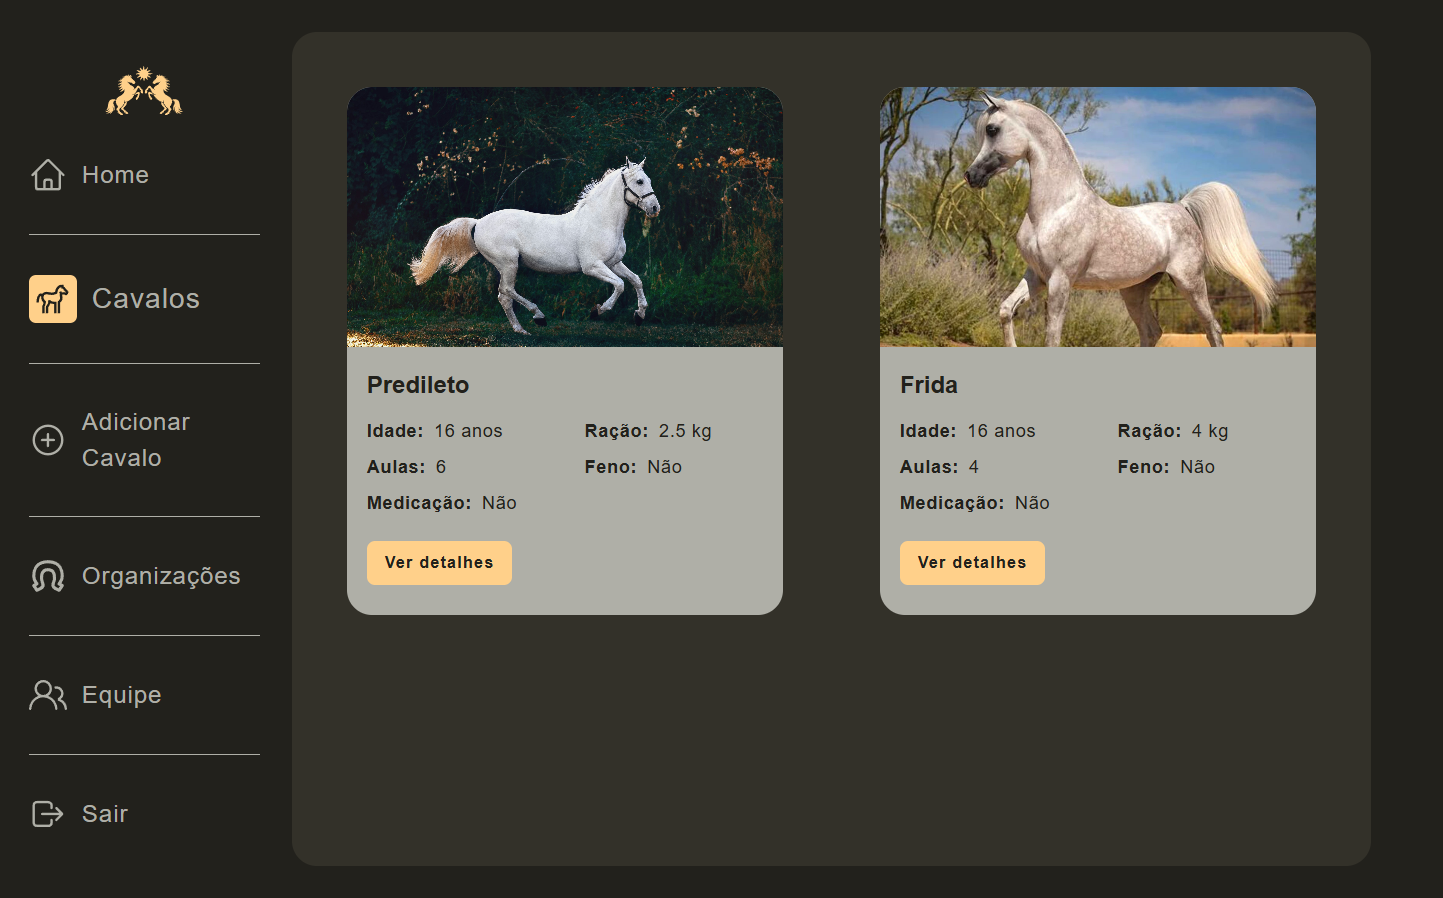
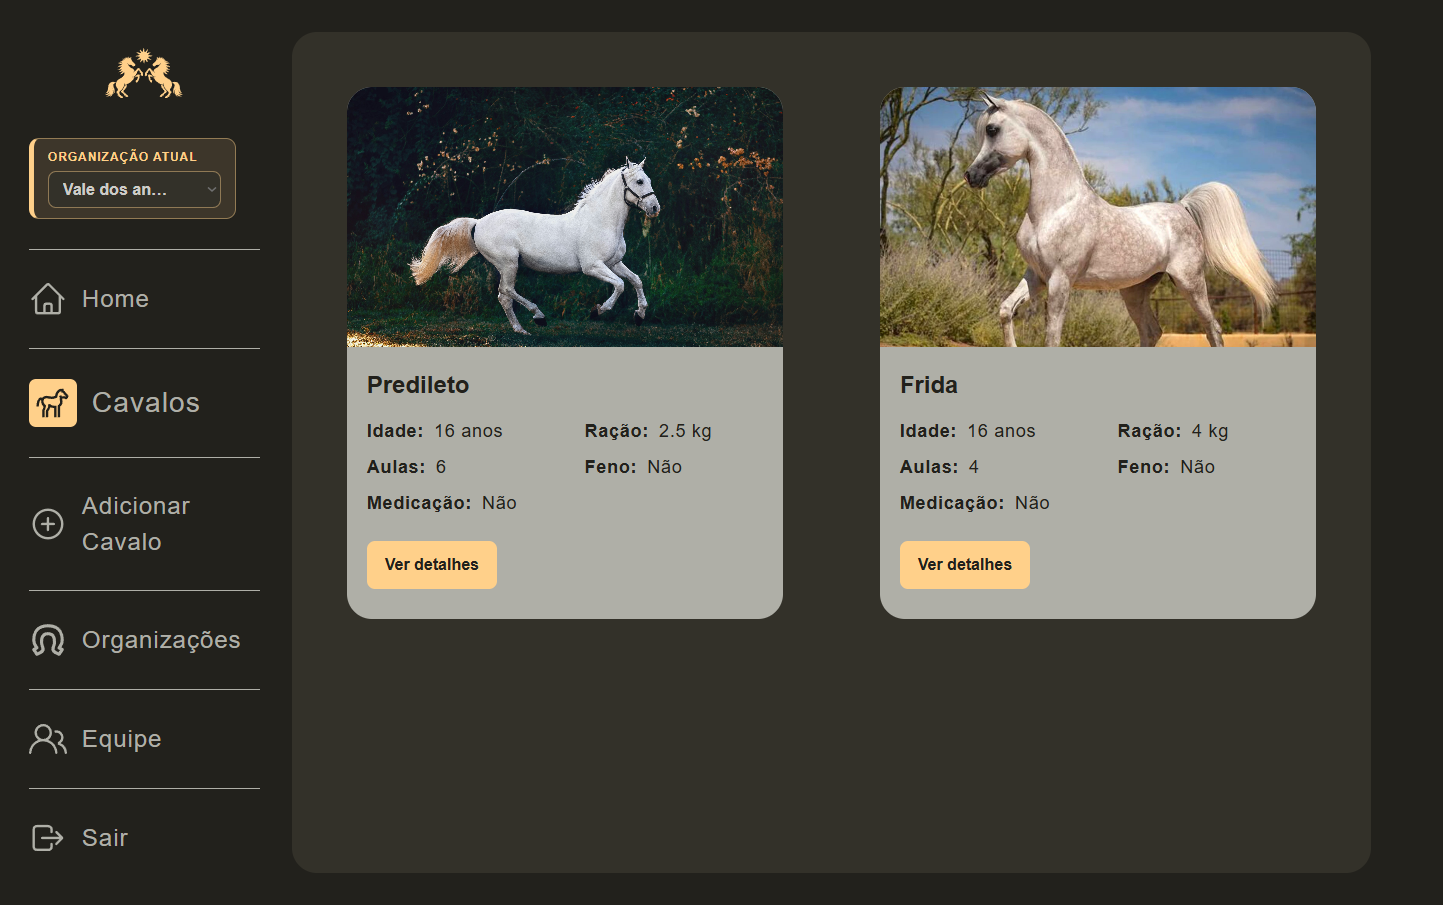
fix(style): horse details container adjustment

diff --git a/cliente/src/components/Cavalo/style.js b/cliente/src/components/Cavalo/style.js
@@ -14,8 +14,7 @@ export const Container = styled.div`
   background-color: var(--color-bg-submenu);
   border-radius: 28px;
   width: 100%;
-  height: 80vh;
-  margin: 30px;
+  height: 100%;
   justify-content: space-between;
   @media only screen and (max-width: 768px) {
     height: calc(100vh - 60px);